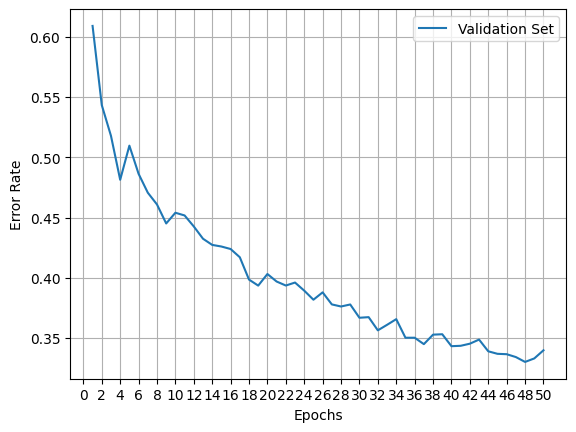
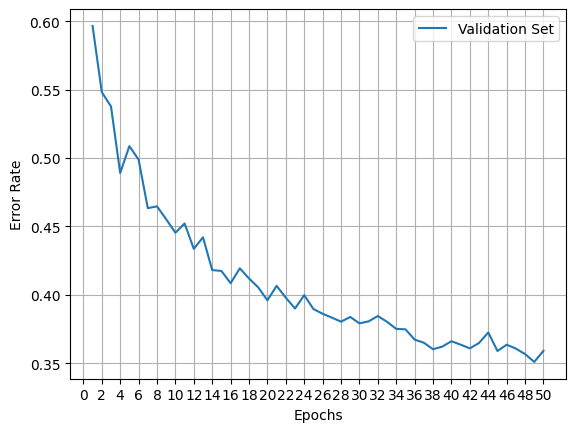
Fixed attention

diff --git a/HW2/hw2-q3/models.py b/HW2/hw2-q3/models.py
@@ -29,36 +29,17 @@ class Attention(nn.Module):
         encoder_outputs,
         src_lengths,
     ):
-        # query: (batch_size, 1, hidden_dim)
+        # query: (batch_size, max_tgt_len, hidden_dim)
         # encoder_outputs: (batch_size, max_src_len, hidden_dim) -> context
         # src_lengths: (batch_size)
-        # we will need to use this mask to assign float("-inf") in the attention scores
-        # of the padding tokens (such that the output of the softmax is 0 in those positions)
-        # Tip: use torch.masked_fill to do this
-        # src_seq_mask: (batch_size, max_src_len)
-        # the "~" is the elementwise NOT operator
         src_seq_mask = ~self.sequence_mask(src_lengths)
-        #############################################
-        # TODO: Implement the forward pass of the attention layer
-        # Hints:
-        # - Use torch.bmm to do the batch matrix multiplication
-        #    (it does matrix multiplication for each sample in the batch)
-        # - Use torch.softmax to do the softmax
-        # - Use torch.tanh to do the tanh
-        # - Use torch.masked_fill to do the masking of the padding tokens
-        #############################################
         z = self.linear_in(query)
         attn_scores = torch.bmm(z, encoder_outputs.transpose(1, 2))
-        attn_scores = attn_scores.masked_fill_(src_seq_mask.unsqueeze(1), 0)
+        attn_scores = attn_scores.masked_fill_(src_seq_mask.unsqueeze(1), float("-inf"))
         attn_weights = torch.softmax(attn_scores, 2)
         c = torch.bmm(attn_weights, encoder_outputs)
         attn_out = torch.tanh(self.linear_out((torch.cat([query, c], dim=2))))
-        #raise NotImplementedError
-        #############################################
-        # END OF YOUR CODE
-        #############################################
-        # attn_out: (batch_size, 1, hidden_size)
-        # TODO: Uncomment the following line when you implement the forward pass
+        # attn_out: (batch_size, max_tgt_len, hidden_size)
         return attn_out
 
     def sequence_mask(self, lengths):
@@ -106,22 +87,11 @@ class Encoder(nn.Module):
     ):
         # src: (batch_size, max_src_len)
         # lengths: (batch_size)
-        #############################################
-        # TODO: Implement the forward pass of the encoder
-        # Hints:
-        # - Use torch.nn.utils.rnn.pack_padded_sequence to pack the padded sequences
-        #   (before passing them to the LSTM)
-        # - Use torch.nn.utils.rnn.pad_packed_sequence to unpack the packed sequences
-        #   (after passing them to the LSTM)
-        #############################################
         emb = self.dropout(self.embedding(src))
         emb = nn.utils.rnn.pack_padded_sequence(emb, lengths, batch_first=True, enforce_sorted=False)
         output, final_hidden = self.lstm(emb)
         output, _ = nn.utils.rnn.pad_packed_sequence(output, batch_first=True)
         enc_output = self.dropout(output)
-        #############################################
-        # END OF YOUR CODE
-        #############################################
         # enc_output: (batch_size, max_src_len, hidden_size)
         # final_hidden: tuple with 2 tensors
         # each tensor is (num_layers * num_directions, batch_size, hidden_size)
@@ -172,39 +142,16 @@ class Decoder(nn.Module):
         # if they are of size (num_layers*num_directions, batch_size, hidden_size)
         if dec_state[0].shape[0] == 2:
             dec_state = reshape_state(dec_state)
-
-        #############################################
-        # TODO: Implement the forward pass of the decoder
-        # Hints:
-        # - the input to the decoder is the previous target token,
-        #   and the output is the next target token
-        # - New token representations should be generated one at a time, given
-        #   the previous token representation and the previous decoder state
-        # - Add this somewhere in the decoder loop when you implement the attention mechanism in 3.2:
-        # if self.attn is not None:
-        #     output = self.attn(
-        #         output,
-        #         encoder_outputs,
-        #         src_lengths,
-        #     )
-        #############################################
-        #print("TGT" + str(tgt))
-        # Do we need to use padding?
-        if len(tgt.shape) == 1:
-            tgt = tgt.unsqueeze(0)
         tgt = tgt[:,:-1] if tgt.shape[1] > 1 else tgt # tgt[:,:-1] or tgt[:,1:]
         emb = self.dropout(self.embedding(tgt))
         outputs, dec_state = self.lstm(emb, dec_state)
-        outputs = self.dropout(outputs)
         if self.attn is not None:
             outputs = self.attn(
                 outputs,
                 encoder_outputs,
                 src_lengths,
             )
-        #############################################
-        # END OF YOUR CODE
-        #############################################
+        outputs = self.dropout(outputs)
         # outputs: (batch_size, max_tgt_len, hidden_size)
         # dec_state: tuple with 2 tensors
         # each tensor is (num_layers, batch_size, hidden_size)

diff --git a/HW2/hw2-q2/hw2-q2.py b/HW2/hw2-q2/hw2-q2.py
@@ -26,7 +26,6 @@ class CNN(nn.Module):
         https://pytorch.org/docs/stable/nn.html
         """
         super(CNN, self).__init__()
-        # What padding to use?
         self.conv1 = nn.Conv2d(1, 8, kernel_size=5, padding=2)
         self.conv2 = nn.Conv2d(8, 16, kernel_size=3)
         self.dropout_prob = dropout_prob
